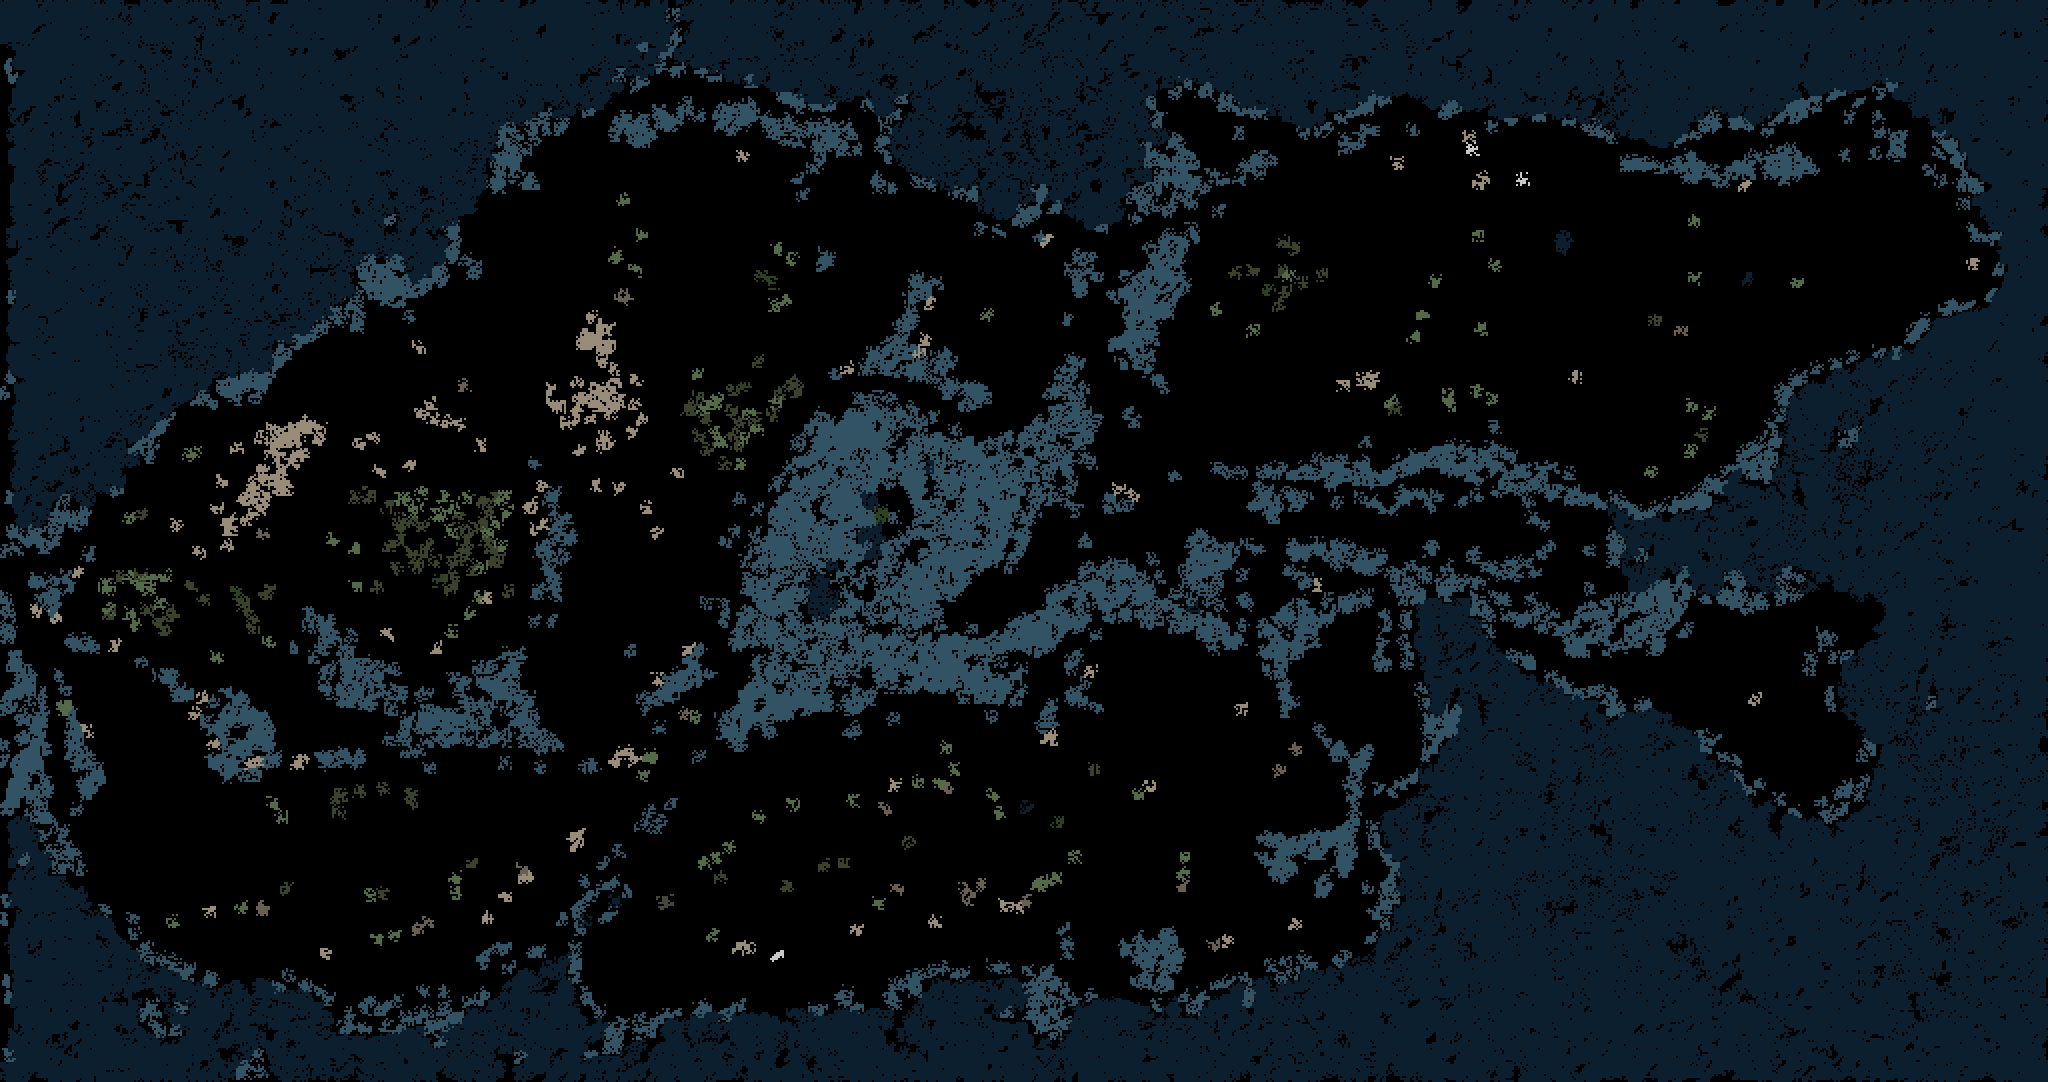
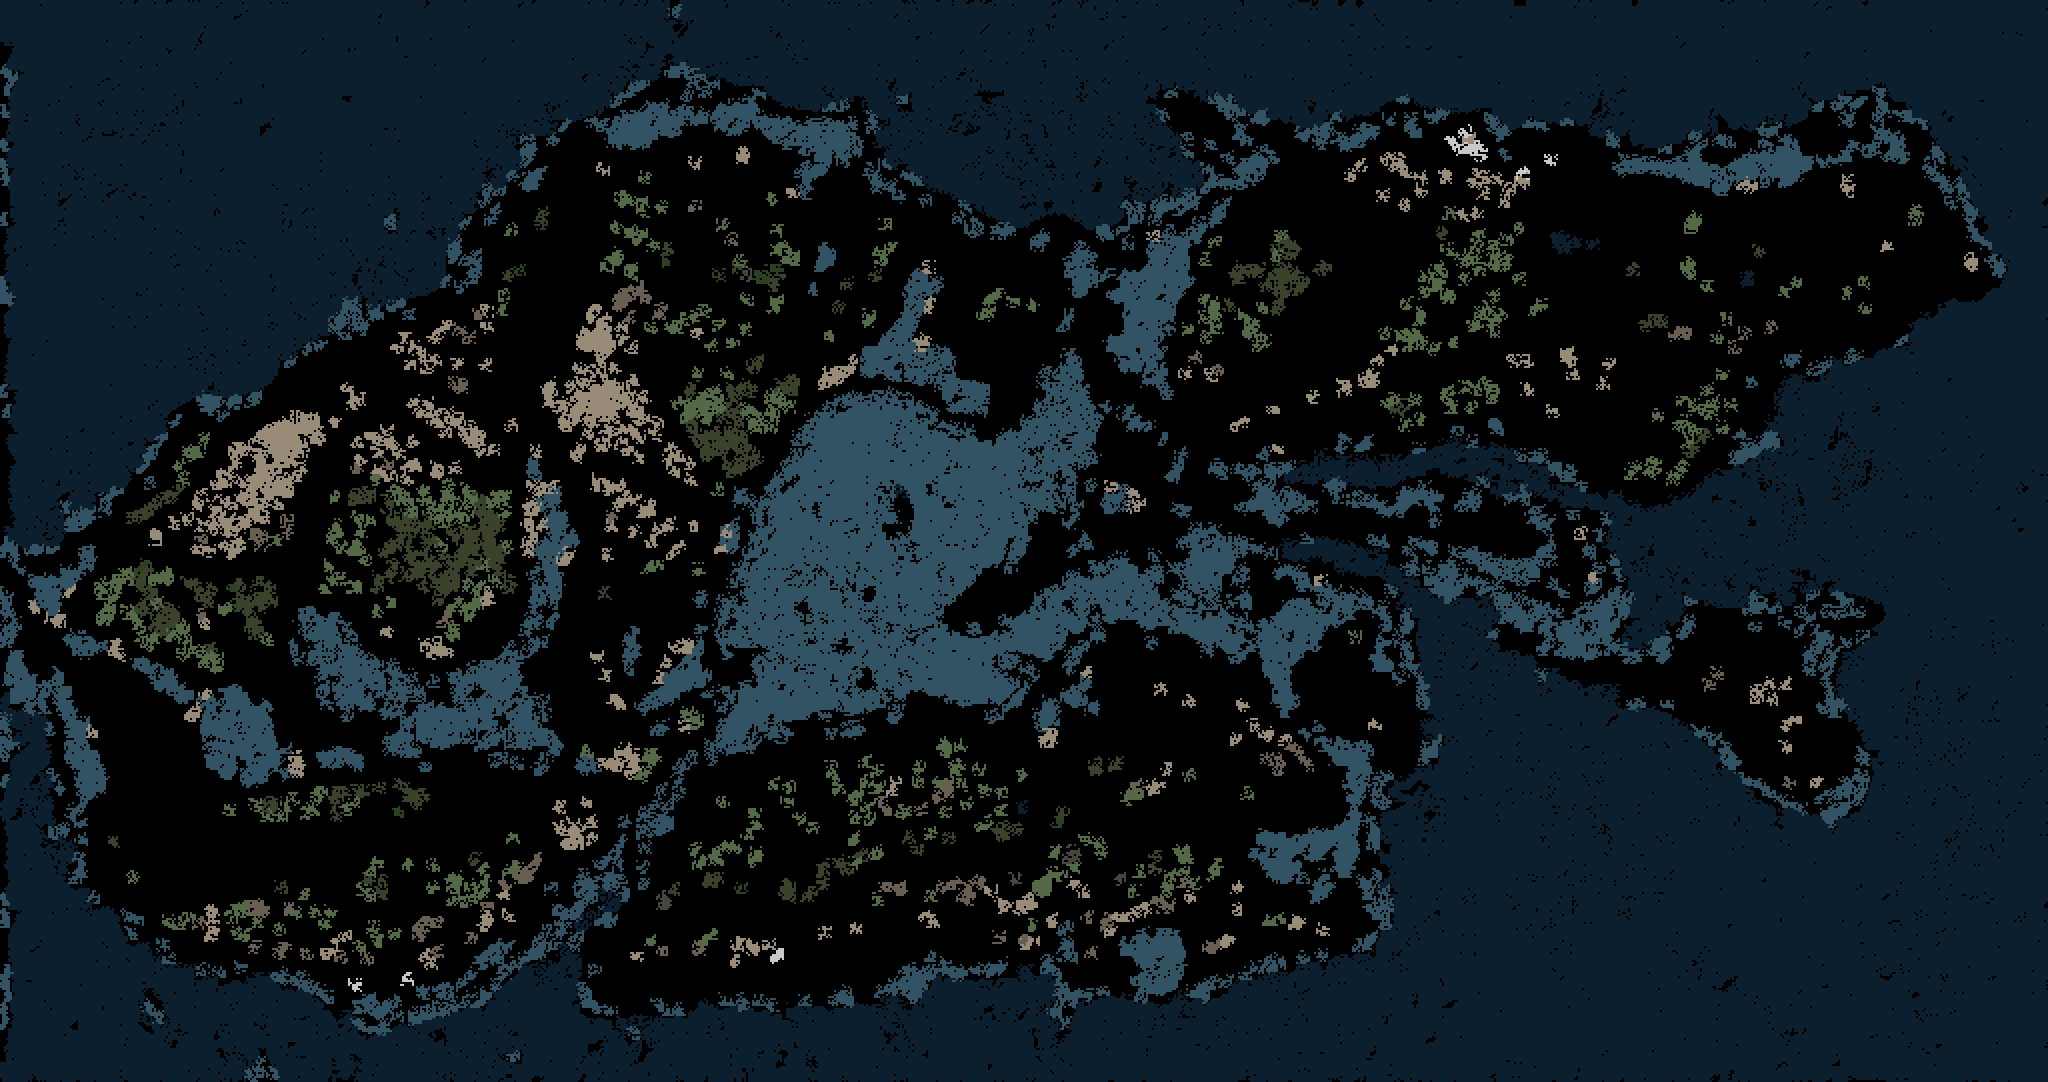
amélioration dbscan

diff --git a/SAE_IL/src/Main.java b/SAE_IL/src/Main.java
@@ -21,7 +21,7 @@ public class Main {
         int flou = 2;
         int[] dim = image.getDim("C:/Users/user/Desktop/Cours/SAE-Planet/SAE_IL/SAE_IL/img/", "Planete 3.jpg");
         image.flouter_gaussienne("C:/Users/user/Desktop/Cours/SAE-Planet/SAE_IL/SAE_IL/img/", "Planete 3.jpg", "Planete_Floue","png", flou);
-        DBScan scan = new DBScan(20, 8, new NormeCIELAB(),(dim[0]+ flou - 1) / flou);
+        DBScan scan = new DBScan(20, 10, new NormeCIELAB(),(dim[0]+ flou - 1) / flou);
         int[][] param = image.image_to_param_flou("C:/Users/user/Desktop/Cours/SAE-Planet/SAE_IL/SAE_IL/img/", "Planete_Floue.png", flou);
         int[] clusters = scan.algoClust(param);
         String[] biomes = image.convertCluster(param, clusters);
